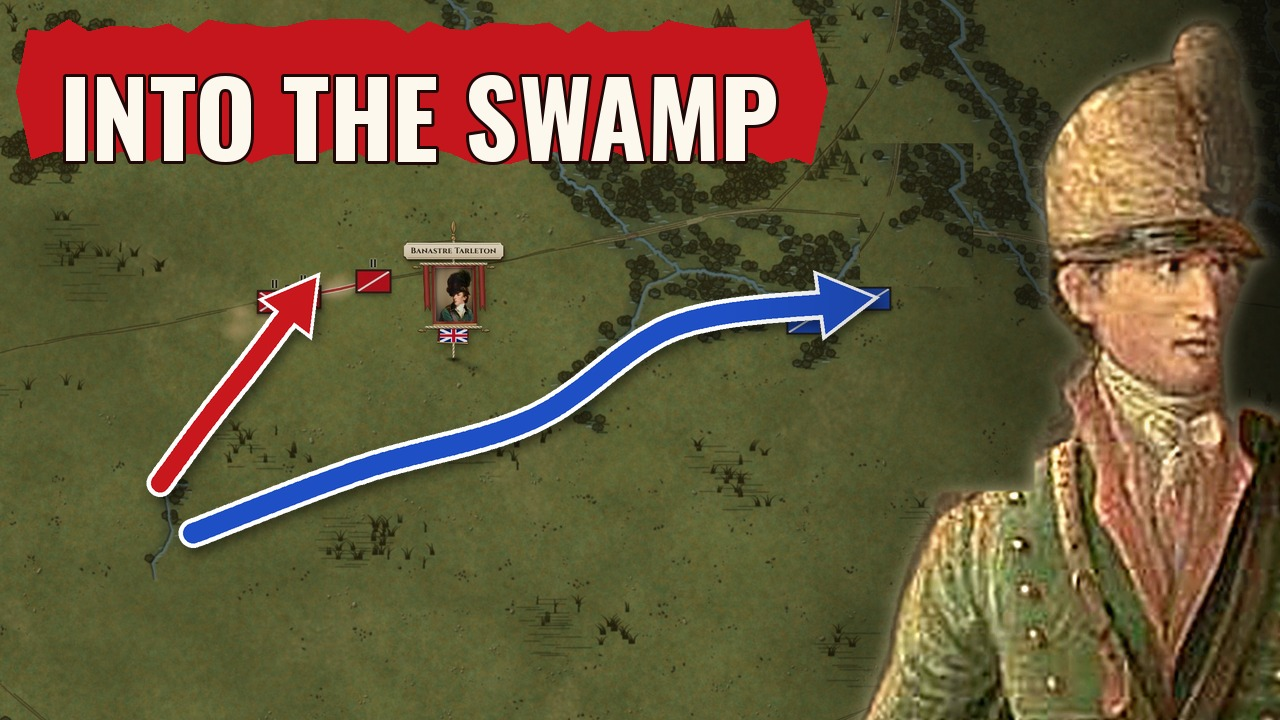
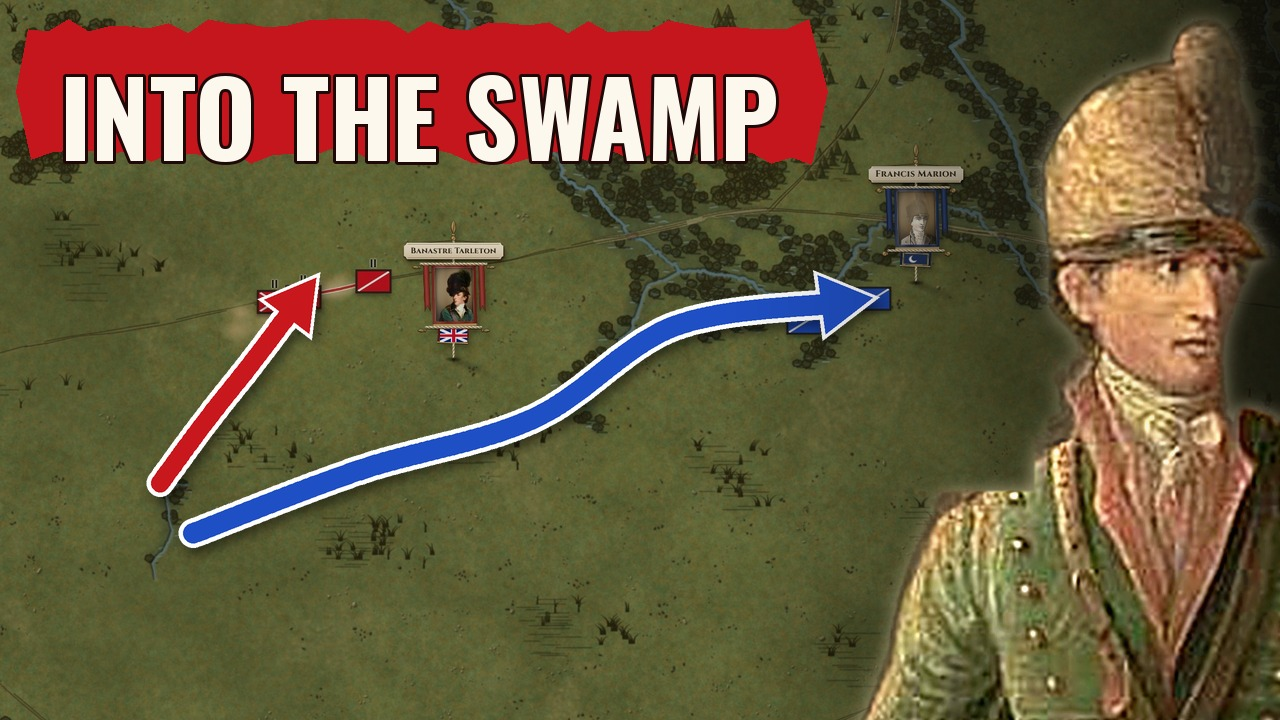
Marion #18: WIP scenes + packaging
Claude-Session: https://claude.ai/code/session_011uJnjBffWtk5uPnY98RFHf

Changed region(s): [[0.6562, 0.1833, 0.7812, 0.3972]]

diff --git a/marion/scenes-src/m3h.js b/marion/scenes-src/m3h.js
@@ -33,11 +33,11 @@ const T_INS_END = T_THIRD - 0.05;   // the archive insert ends with "...by name.
 LIVING({ clouds: 0.1 });
 const C0 = [1330, 975, 1.05], C1 = [1350, 960, 0.98], CW = [1420, 860, 0.72], CW2 = [1400, 870, 0.74], CS = [1395, 900, 0.8], CE = [1420, 880, 0.75];
 camera([[0, ...C0], [T_NEXT - 0.3, ...C1], [T_FELL - 0.6, ...CW, "power2.inOut"], [T_INS_END, 1415, 862, 0.725], [T_HOLD + 1.5, ...CW2],
-  [T_SHUT + 3.2, 1405, 868, 0.74], [T_TIME + 1.5, ...CS, "power2.inOut"], [T_SO - 0.4, 1398, 895, 0.8], [T_SO + 1.6, ...CE, "power2.inOut"], [END, 1425, 878, 0.76]]);
+  [T_SHUT + 3.2, 1405, 868, 0.74], [T_TIME + 1.5, ...CS, "power2.inOut"], [T_OSCAR, ...CS], [T_S1 - 0.3, 1330, 925, 0.88, "sine.inOut"], [T_SO - 0.4, 1335, 920, 0.88], [T_SO + 1.6, ...CE, "power2.inOut"], [END, 1425, 878, 0.76]]);
 // date plate: 8 SEPTEMBER 1781 (from m3g) -> 9 SEPTEMBER 1781 ("the next evening", under the insert) -> 1781 ("By the end of seventeen eighty-one")
 dateNow("8 SEPTEMBER 1781", T_NEXT + 0.25);
 B.date("9 SEPTEMBER 1781", T_NEXT + 0.3, T_1781 - 0.08, 32); SFX("tick", T_NEXT + 0.4);
-B.date("1781", T_1781 + 0.05, null, 32); SFX("tick", T_1781 + 0.15);
+B.date("LATE 1781", T_1781 + 0.05, null, 32); SFX("tick", T_1781 + 0.15);
 // ---------------------------------------------------------------------------------------------------------------------------------
 // helpers (as m1d2 / m3a / m3f)
 const scr0 = (html, css) => { const el = document.createElement("div"); el.style.cssText = "position:absolute;" + css; el.innerHTML = html; SCN.insertBefore(el, document.getElementById("credit")); gsap.set(el, { autoAlpha: 0 }); return el; };
@@ -51,8 +51,8 @@ const EUT = PLACE("eutaw_springs");   // 1328,934
 UNIT("rs", "british", [EUT[0] + 22, EUT[1] + 4], "infantry", { ech: "XX" });
 UNIT("gr", "allies", [EUT[0] - 120, EUT[1] - 20], "infantry", { ech: "XX" });
 UNIT("mb", "allies", [EUT[0] - 40, EUT[1] + 62], "cavalry", { ech: "" });
-const FL_GB = SIDEFLAG("gb", [EUT[0] + 82, EUT[1] + 18]);    // ~60 px behind the red line (east), off the box
-const FL_US = SIDEFLAG("us", [EUT[0] - 190, EUT[1] - 36]);   // ~60 px behind Greene's box (west)
+const FL_GB = SIDEFLAG("gb", [EUT[0] + 130, EUT[1] + 18]);   // critic r3: clear of the red box (east, behind the line)
+const FL_US = SIDEFLAG("us", [EUT[0] - 260, EUT[1] - 40]);   // critic r3: clear of Greene's box (west, behind the line)
 // casualty card (both sides spoken; each row on its numbers)
 { const row = (flag, side, txt, col) => `<div class="cr" style="display:flex;align-items:center;gap:20px;margin-top:12px"><img src="assets/media/${flag}" alt="" style="height:40px;border:1px solid #f7f3ea">
     <div style="font-size:38px;letter-spacing:.1em;min-width:250px">${side}</div><div style="font-size:44px;letter-spacing:.04em;color:${col}">${txt}</div></div>`;
@@ -70,11 +70,11 @@ const CHS = NUDGE([1586, 1405], { s: 0.73 });   // just north of the baked Charl
 const BACKR = [[EUT[0] + 22, EUT[1] + 4], [1395, 985], [1460, 1050], [1520, 1105], [1556, 1190], [1570, 1290], CHS];
 march("rs", BACKR, T_NEXT + 0.6, T_THANK - T_NEXT + 0.6, { dustOp: 0.4, trail: false });
 tl.to(FL_GB, { autoAlpha: 0, duration: 0.4 }, T_NEXT + 0.5);
-const FL_GB2 = SIDEFLAG("gb", [CHS[0] + 70, CHS[1] + 26], T_THANK + 1.0);   // the Union flag at Charleston (behind the box, off the name)
+const FL_GB2 = SIDEFLAG("gb", [CHS[0] + 120, CHS[1] + 40], T_THANK + 1.0);   // the Union flag at Charleston (behind the box, off the name)
 // ---------------------------------------------------------------------------------------------------------------------------------
 // after the insert: method card THE SWAMP FOX METHOD (1 + 2 lit; 3 lights on "of his method")
 GG.METHOD = ["STRIKE IN THE DARK", "LET THE SWAMP FIGHT", "HIT THE CHAIN WITH THE ARMY"]; GG.METHOD_TITLE = "THE SWAMP FOX METHOD";
-{ const MC = GG.method(3, T_INS_END + 0.05, T_TOG - 0.25, [T_INS_END + 0.05, T_INS_END + 0.05, T_METHOD + 0.1]); MC.querySelector(".inner").style.background = "rgba(18,16,12,0.97)"; MC.style.top = "210px"; }
+{ const MC = GG.method(3, T_INS_END + 0.05, T_TOG - 0.25, [T_INS_END + 0.05, T_INS_END + 0.05, T_METHOD + 0.1]); MC.querySelector(".inner").style.background = "rgba(18,16,12,0.97)"; MC.style.top = "170px"; }   // r3: clears the Eutaw boxes
 // "Together with a real army": Marion rides up beside Greene, both glow
 march("mb", [[EUT[0] - 40, EUT[1] + 62], [EUT[0] - 80, EUT[1] + 58], [EUT[0] - 112, EUT[1] + 52]], T_TOG + 0.1, 1.4, { dustOp: 0.4, trail: false });
 GLOW("gr", T_TOG + 0.3, 2, BLUEGLOW); GLOW("mb", T_TOG + 0.5, 2, BLUEGLOW);
@@ -102,7 +102,12 @@ STRIPES(BLUEP, REDP, T_SHUT + 0.05).forEach((d, i) => { d.style.filter = i ? "br
 // "It had been a cruel civil war between neighbors": the light cools a little (calm, no action)
 LIGHT("dusk", T_CIVIL + 0.2, 3.0, 0.22);
 // "Marion was a man of his time": his banner by the Santee
-const BM = BANNER("marion", "Francis Marion", "sc", "mb", T_TIME + 0.05, { side: "ne", until: T_SO - 0.3 });
+const BM = BANNER("marion", "Francis Marion", "sc", "mb", T_TIME + 0.05, { side: "ne", until: T_S1 - 0.3 });   // r3: leaves before the method card (it would cover the banner)
+// "Oscar, the enslaved man who rode beside him": a small unlabelled rider dot glows beside Marion's box (no text)
+{ const MB = B.units.mb ? [EUT[0] - 112, EUT[1] + 52] : null; const od = pinS(GG.pin(`<div style="width:13px;height:13px;border-radius:50%;background:#1f4fc4;border:2px solid #f3eee2;box-shadow:0 0 10px rgba(150,190,255,.9)"></div>`, MB[0] - 44, MB[1] + 4, {}));
+  tl.fromTo(od, { autoAlpha: 0 }, { autoAlpha: 1, duration: 0.5, immediateRender: false }, at(E1, "rode beside him"));
+  tl.fromTo(od.firstElementChild, { boxShadow: "0 0 4px rgba(150,190,255,.4)" }, { boxShadow: "0 0 16px rgba(170,205,255,1)", duration: 0.6, yoyo: true, repeat: 3, ease: "sine.inOut", immediateRender: false }, at(E1, "rode beside him") + 0.3);
+  tl.to(od, { autoAlpha: 0, duration: 0.4 }, T_SO - 0.2); }
 // "was honored at the Capitol only in two thousand six": one small caption, restrained
 { const CAP = scr0(`<div style="padding:10px 30px 12px;background:rgba(18,16,12,0.92);border-left:5px solid #c9b48a;font-family:Oswald;font-weight:700;color:#f7f3ea;font-size:30px;letter-spacing:.14em;box-shadow:0 12px 30px rgba(0,0,0,.5)">
     OSCAR MARION <span style="color:#c9b48a">&middot; HONORED AT THE CAPITOL, 2006</span></div>`, "left:0;right:0;top:790px;display:flex;justify-content:center;");

diff --git a/marion/scenes-src/m3f.js b/marion/scenes-src/m3f.js
@@ -33,8 +33,8 @@ const T_PACK = at(P2, "The riders were packed so tight"), T_NARROW = at(P2, "on 
 LIVING({ clouds: 0.08, light: "afternoon", lightK: 0.25 });
 LIGHT("dusk", T_30 - 0.3, 4.0, 0.36);   // 30 Aug "very hot", at sunset: warm dusk light (the only weather)
 const FER = PLACE("parkers_ferry"), RY = 808;
-const C0 = [1468, 842, 1.5], C1 = [1470, 830, 2.4], C2 = [1512, 832, 3.0], C3 = [1515, 848, 3.0], C4 = [1482, 846, 2.9];   // close enough that the ambush reads (~100 px between boxes)
-camera([[0, ...C0], [T_PF - 0.2, 1462, 836, 1.7], [T_ED + 1.2, ...C1, "power2.inOut"], [T_HID + 2.2, ...C2, "power2.inOut"], [T_CHARGE, 1515, 834, 3.0],
+const C0 = [1468, 842, 2.25], C1 = [1470, 830, 2.4], C2 = [1512, 832, 3.0], C3 = [1515, 848, 3.0], C4 = [1482, 846, 2.9];   // critic r3: frame 0 already in the close look (no wide->close art pop at the cut); close enough that the ambush reads (~100 px between boxes)
+camera([[0, ...C0], [T_PF - 0.2, 1464, 838, 2.3], [T_ED + 1.2, ...C1, "power2.inOut"], [T_HID + 2.2, ...C2, "power2.inOut"], [T_CHARGE, 1515, 834, 3.0],
   [T_EVERY - 0.4, 1525, 838, 3.15], [T_COUNT, ...C3, "power2.inOut"], [T_BIG + 0.2, 1512, 848, 3.0], [T_BIG + 2.6, ...C4, "power2.inOut"], [END, 1484, 846, 2.9]]);
 dateNow("JUNE 1781", T_30 - 0.05);
 B.date("30 AUGUST 1781", T_30 + 0.05, null, 32); SFX("tick", T_30 + 0.15);
@@ -108,7 +108,7 @@ tl.to(B.units.fr.el, { autoAlpha: 0, duration: 0.45 }, T_20 + 0.3);
     <div style="font-size:26px;letter-spacing:.34em;color:#d8c9a3;text-align:center">BY MARION'S OWN COUNT</div>
     ${row("gb_flag_1606.png", "LOYALISTS", `<span class="p1">~20 KILLED</span><span class="p2"> &middot; ~80 WOUNDED</span>`, "#ff8a80")}
     ${row("moultrie_flag.png", "MARION", `<span class="p3">1 KILLED</span><span class="p4"> &middot; 3 WOUNDED</span>`, "#9fc0ea")}</div>`,
-    "left:0;right:0;top:650px;display:flex;justify-content:center;transform-origin:50% 30%;");
+    "left:0;right:0;top:700px;display:flex;justify-content:center;transform-origin:50% 30%;");   // critic r3: below the red reserve at the ferry
   const rows = CC.querySelectorAll(".cr"), P = (c) => CC.querySelector(c); gsap.set([rows[0], rows[1], P(".p2"), P(".p4")], { autoAlpha: 0 });
   slam(CC, T_COUNT - 0.05, { from: 1.4, shake: 3, until: T_GUN + 0.4 });   // r2 (e): the last row (40.3 s) holds >= 2.5 s
   const IN = (el, t) => { tl.fromTo(el, { autoAlpha: 0, y: 8 }, { autoAlpha: 1, y: 0, duration: 0.28, immediateRender: false }, t); SFX("tick", t + 0.05); };

diff --git a/marion/scenes-src/m3g.js b/marion/scenes-src/m3g.js
@@ -49,7 +49,8 @@ const CARD = (big, col, t, until, o = {}) => { const el = scr0(`<div style="padd
 //   along the road in column (militia in the lead, the Continentals behind)
 const RL = [["r1", [1648, 1186]], ["r2", [1642, 1230]], ["r3", [1646, 1276]]];
 RL.forEach(([id, p]) => UNIT(id, "british", p, "infantry", { ech: "" }));
-SIDEFLAG("gb", [1680, 1314]);   // ~80 px behind the red line, south of the house
+SIDEFLAG("gb", [1680, 1314], 0, T_CAMP);   // ~80 px behind the red line, south of the house
+SIDEFLAG("gb", [1760, 1250], T_CAMP + 0.3);   // critic r3: after the charge, behind the house (off the hatched camp)
 const COL = { m: [1556, 1215], p: [1528, 1205], a2: [1500, 1193], a1: [1472, 1181], c1: [1444, 1170], c2: [1416, 1160], c3: [1388, 1150] };
 const L1 = { a1: [1568, 1164], a2: [1574, 1210], m: [1580, 1256], p: [1586, 1300] }, L2 = { c1: [1470, 1174], c2: [1478, 1220], c3: [1486, 1266] };
 Object.entries(COL).forEach(([id, q]) => UNIT(id, "allies", q, "infantry", { ech: "", ...(id === "p" ? { name: "PICKENS", nameAt: T_PICK + 0.1 } : {}) }));
@@ -61,7 +62,7 @@ PLACE_LABEL("Eutaw Springs", H, T_EUTAW + 0.1, { dy: -64, size: 26 });
 // "Marion stood in a real battle line": the column deploys (militia line in front, Continentals behind); Marion's banner on his box
 Object.entries({ ...L1, ...L2 }).forEach(([id, q]) => { const c = [COL[id][0] + 24, COL[id][1] + 9], back = L1[id] ? [q[0] - 34, q[1]] : q;
   march(id, [c, back], T_LINE, 1.8, { dustSize: 30, dustOp: 0.35, trail: false }); });
-BANNER("marion", "Francis Marion", "sc", "m", T_LINE + 0.4, { side: [-110, 40] });   // stake in the gap between the two lines, off Pickens and the militia boxes
+BANNER("marion", "Francis Marion", "sc", "m", T_LINE + 0.4, { side: "sw" });   // critic r3: stake on the south wing ("on the right")
 // "Greene put his militia in front": his banner on the second line; the militia line steps forward
 BANNER("greene", "Nathanael Greene", "us", "c1", T_GREENE + 0.1, { side: "ne" });   // up-right: clear of the date plate
 Object.entries(L1).forEach(([id, q], i) => march(id, [[q[0] - 34, q[1]], q], T_FRONT + 0.1 + i * 0.06, 1.0, { dust: false, trail: false }));

diff --git a/marion/tools/make_thumb_marion.py b/marion/tools/make_thumb_marion.py
@@ -113,7 +113,7 @@ def save(img, name):
 
 # ---------- A: SWAMP FOX (Ranney 1850 + White's Marion)
 rn = Image.open(M + "arch_ranney.jpg").convert("RGB")             # 1613x1112, frame cropped off
-rn = rn.crop((300, 200, 300 + 1313, 200 + 739)).resize((W, H), Image.LANCZOS)
+rn = rn.crop((250, 210, 250 + 1290, 210 + 726)).resize((W, H), Image.LANCZOS)
 rn = ImageEnhance.Brightness(ImageEnhance.Color(rn).enhance(0.6)).enhance(0.72)
 rn = ImageEnhance.Contrast(rn).enhance(1.1)
 A = rn.convert("RGBA"); shade(A, "left", 640)
@@ -125,8 +125,7 @@ pA = save(A, "A_SWAMP_FOX")
 mp = Image.open(T + "frame_m2b_21s.jpg").convert("RGBA")
 # the scene's small Union flag under Tarleton's banner shows St Patrick's red saltire (post-1801): our 1606 flag on top
 mp.alpha_composite(Image.open(M + "gb_flag_1606.png").convert("RGBA").resize((41, 19), Image.LANCZOS), (660, 494))
-# hide Marion's small map banner (lithograph head) so only one Marion face is on the thumbnail
-mp.paste(mp.crop((1290, 0, 1460, 215)), (1290, 215))
+# (Marion's small map banner stays: a patch would cut the river and the road; its head is unreadable at feed size)
 mp = mp.convert("RGB").resize((W, H), Image.LANCZOS)  # full frame x0.667
 mp = ImageEnhance.Brightness(mp).enhance(0.88)
 B = mp.convert("RGBA")
